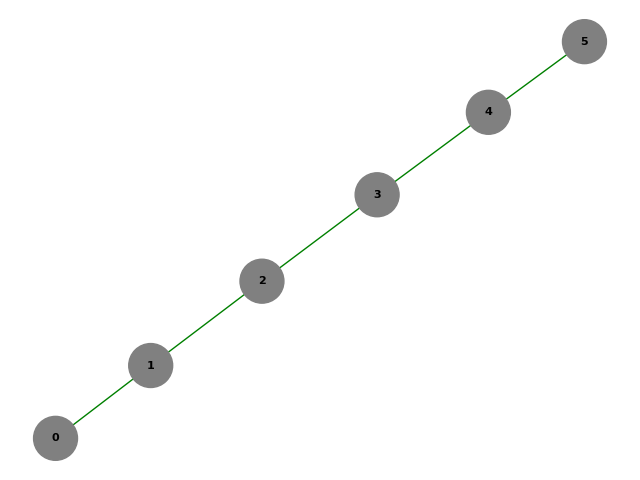
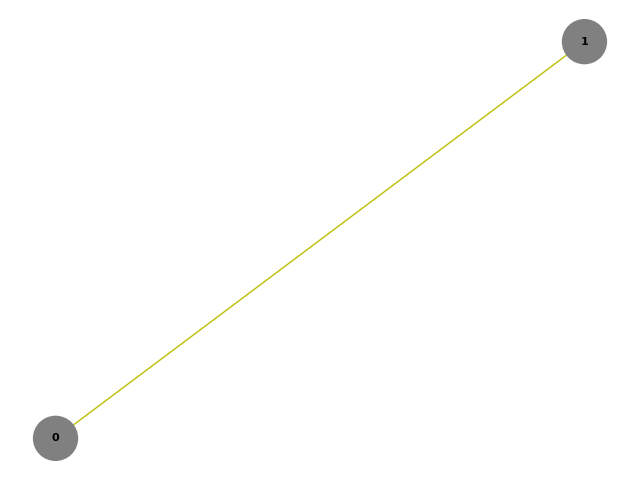
update code to exchange the maximal r pair among all the agents with an edge in the EF1_graph

diff --git a/Allocation.py b/Allocation.py
@@ -18,7 +18,6 @@ class W_maximal_allocation:
         self.A = self.get_w_maximal_allocation(w)  # the allocation
         self.item_pairs = {}  # all the exchangeable pairs whose replacement will benefit the jealous agents
         self.init_envy_graphs()
-        self.exchanged = []  # a list of pairs that have already exchanged
 
 
     def init_envy_graphs(self):
@@ -178,9 +177,10 @@ class W_maximal_allocation:
 
     def get_max_r_pair(self):
         """
-        Find the pair with the maximal r value among all the exchangeable pairs (in self.item_pairs).
-        :return: the pair with the maximal r value and the agents that should replace it.
-                 Specificaly, the function returns i,j,(oi,oj) s.t. oi∈Ai, oj∈Aj
+        Find the pair with the maximal r value among all the exchangeable pairs of some agents in 
+        which one envious the other in more than one item (or more than one good and one chore).
+        :return: this pair with the maximal r value and the agents that should replace it.
+                 Specifically, the function returns i,j,(oi,oj) s.t. oi∈Ai, oj∈Aj
         """
         max_i = -1
         max_j = -1
@@ -188,30 +188,23 @@ class W_maximal_allocation:
         max_oj = None
         max_r = -inf
         # print("____________________________________")
-        for key in self.item_pairs.keys():  # key = agents pair (i,j)
-            i = int(key.split(",")[0])
-            j = int(key.split(",")[1])
-            pairs_list = self.item_pairs[key]
-            # print("i,j: ", i, j)
-            for pair in pairs_list:
-                oi = pair[0]
-                oj = pair[1]
-                r = compute_r(i, j, oi, oj, self.I.utilities)
-                # print("r(", i, ",", j, ",", oi, ",", oj, ") = ", r)
-                if r > max_r:
-                    max_r = r
-                    max_i = i
-                    max_j = j
-                    max_oi = oi
-                    max_oj = oj
-                curr_pair = str(max_i) + '|' + str(max_j) + '|' + str(max_oi) + '|' + str(max_oj)
-                if r == max_r and curr_pair in self.exchanged:  # the current max pair has already exchanged between those agents
-                    # print("shalommmmmmmmm")
-                    max_r = r
-                    max_i = i
-                    max_j = j
-                    max_oi = oi
-                    max_oj = oj
+        EF1_edges = list(self.EF1_graph.edges)  # all the edges in the current EF1_graph, if the allocation is not EF1, it must has at least one edge
+        if len(EF1_edges) == 0:  # empty edge list --> the allocation is EF1 --> we won't exchange this pair anyway!
+            return -1, -1, (None, None)
+        j, i = EF1_edges[0]  # take the first pair, TODO: think what to do if there are some edges
+        key = str(i) + ',' + str(j)
+        pairs_list = self.item_pairs[key]
+        for pair in pairs_list:
+            oi = pair[0]
+            oj = pair[1]
+            r = compute_r(i, j, oi, oj, self.I.utilities)
+            # print("r(", i, ",", j, ",", oi, ",", oj, ") = ", r)
+            if r > max_r:
+                max_r = r
+                max_i = i
+                max_j = j
+                max_oi = oi
+                max_oj = oj
         # print("maximum: ", max_i, max_j, (max_oi, max_oj), max_r)
         # print("____________________________________")
         return max_i, max_j, (max_oi, max_oj)
@@ -228,11 +221,6 @@ class W_maximal_allocation:
         oj_idx = self.A[j].index(oj)  # the index of oj in A[j]
         self.A[i][oi_idx] = oj
         self.A[j][oj_idx] = oi
-
-        # add the pair to the exchanged list
-        pair = str(j) + '|' + str(i) + '|' + str(oi) + '|' + str(oj)
-        self.exchanged.append(pair)
-        print("echanged items: ", self.exchanged)
 
         # arrange the allocation
         self.A = tuple(arrange_A(self.I.n, list(self.A), self.I.s))
@@ -270,7 +258,7 @@ class W_maximal_allocation:
         for key in self.item_pairs.keys():  # key = agents pair (i,j)
             i = int(key.split(",")[0])
             j = int(key.split(",")[1])
-            print("i, j: ", i, j)
+            # print("i, j: ", i, j)
             pairs_list = self.item_pairs[key]
             for pair in pairs_list:
                 oi = pair[0]
@@ -284,14 +272,14 @@ class W_maximal_allocation:
                 else:
                     r = compute_r(i, j, oi, oj, self.I.utilities)
                     if uioi < uioj:  # group1
-                        print("group1, r = ", r)
+                        # print("group1, r = ", r)
                         if r < min_group1:
                             min_group1 = r  # update min
                     else:  # uioi > uioj -- group2
-                        print("group2, r = ", r)
+                        # print("group2, r = ", r)
                         if r > max_group2:
-                            max_group2 = r  # upsate max
+                            max_group2 = r  # update max
         if min_group1 < max_group2:  # not min group1 >= max_group2
             return False
-        print(max_group2, " <= wi/wj <= ", min_group1)
+        print("is_w_maximal function: ", max_group2, " <= wi/wj <= ", min_group1)
         return True
